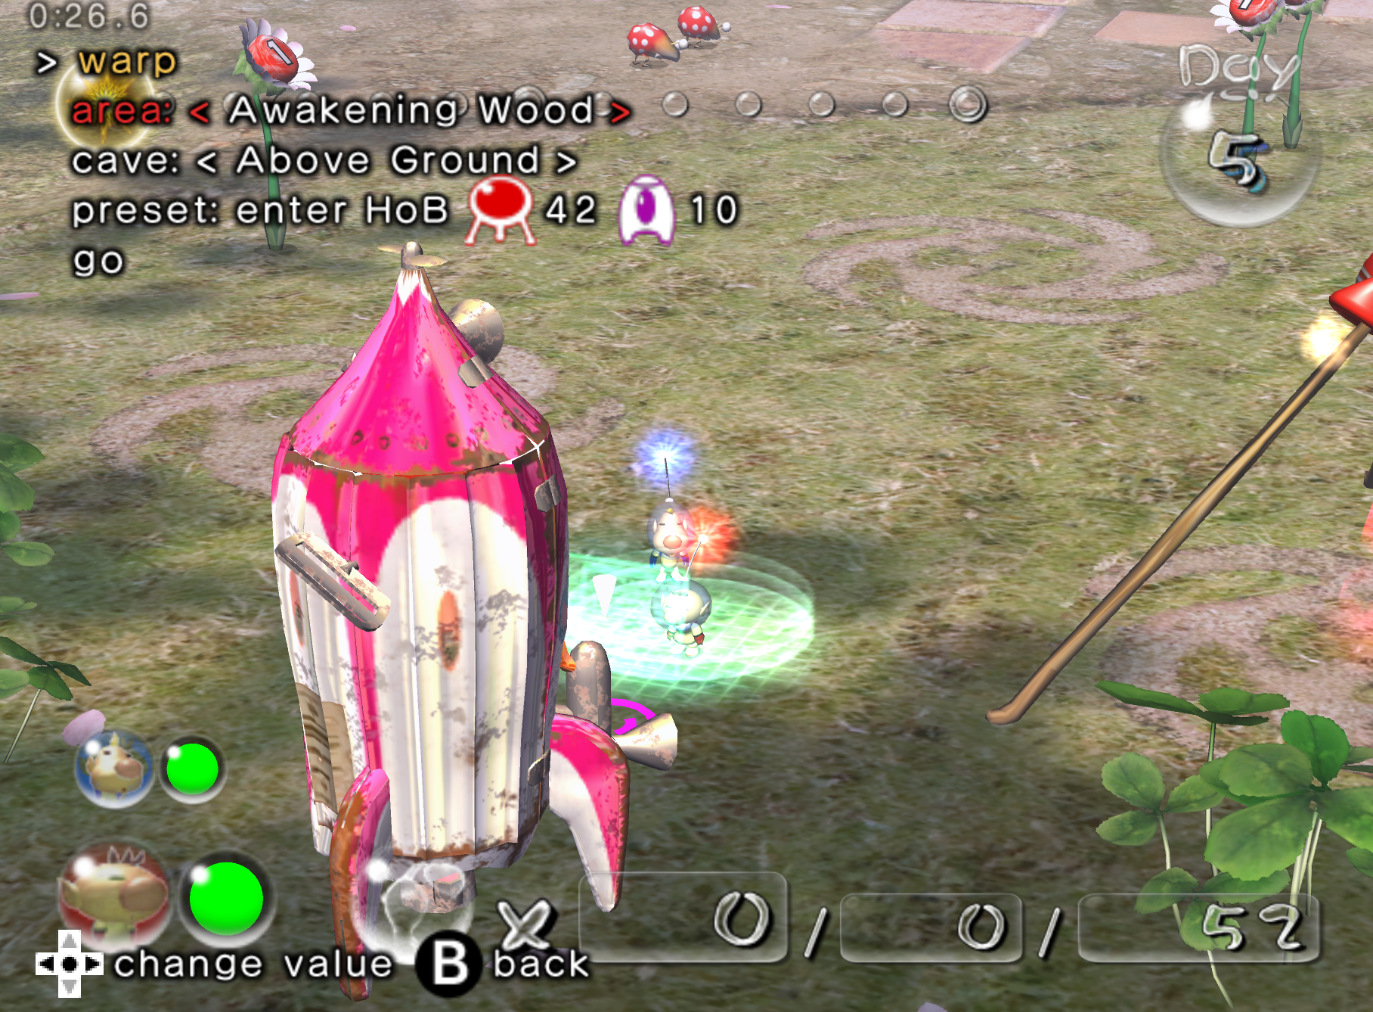
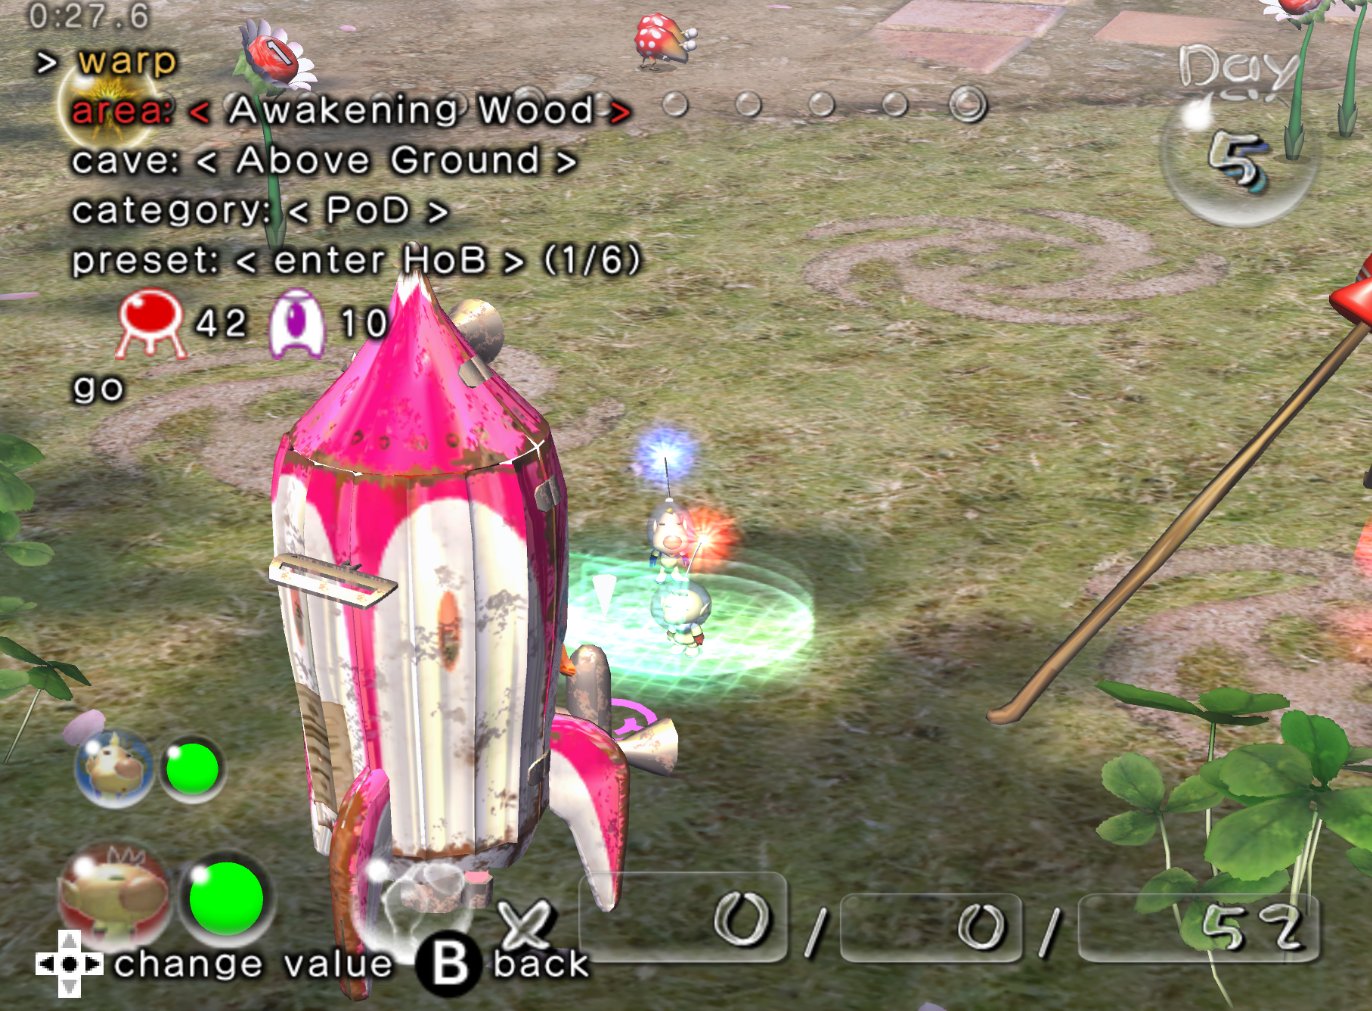
Update README to reflect warp menu changes (#299)

diff --git a/README.md b/README.md
@@ -43,13 +43,13 @@ P2GZ is both Dolphin and console compatible:
 **NB: As always, modifying your console is at your own risk - please take care when following homebrew guides.**
 
 ### Practice caves and above ground areas
-Once you've booted up P2GZ, you can access the P2GZ menu from file select onward, by **double-pressing D-pad-left** on your controller. Some options are only available when opened during gameplay (such as those that depend on a level or assets being loaded), but warping, trainers, and global settings are available from file select.
+Once you've booted up P2GZ, you can access the P2GZ menu from file select onward, by **double-pressing D-pad-left** on your controller. Some options are only available when opened during gameplay (such as those that depend on a level or assets being loaded), but warping, race mode, trainers, and global settings are available from file select.
 
 A couple QoL features are on by default: skippable cutscenes (treasure collection and first-time-entering-area), and skipping save prompts between sublevels. These can be disabled in the P2GZ menu (double-press D-pad-left) under **settings**. These settings will persist when you boot up the game in the future if you are using a memory card (virtual or otherwise). The timer (in the top-left of the screen) will auto-update to account for any skipped cutscenes and for the lack of save prompt.
 
-P2GZ fully supports both Pay Off Debt (PoD) and All Treasures (AT) routes for speedrunning. To practice a segment, open the P2GZ menu (double-press D-pad-left) and select **warp**. Select the area, then the cave (or above ground) you wish to practice using the D-pad. 
+P2GZ fully supports both Pay Off Debt (PoD) and All Treasures (AT) routes for speedrunning. To practice a segment, open the P2GZ menu (double-press D-pad-left) and select **warp**. Select the area, then the cave (or above ground) you wish to practice, then the category (PoD, AT, or no preset) using the D-pad. 
 
-A default PoD preset will auto-select - to change, hit A on the preset and choose your category. Presets are then displayed in route order, with a name and preview of your squad/onion setup. Choose your preset, then select **go** to warp. If warping to a cave, you can also enter a set seed to use when generating the layout, if desired. If you want to warp with your current squad, choose "no preset (warp with current squad) instead.
+The first preset for that area in that category will auto-select - to change, hit D-pad-left or D-pad-right on the preset to cycle through other presets for that area. Press A on the preset to choose from the full list of presets in the game, regardless of area. A preview of your squad/onion setup is also displayed. Once you've picked your preset, select **go** to warp. If warping to a cave, you can also enter a set seed to use when generating the layout, if desired, and also pick which captain you'd like to enter as. If you want to warp with your current squad, choose "no preset" from the category selector instead.
 
 Treasure region (US/JP/PAL) can be changed in the P2GZ menu (double-press D-pad-left) under the **level** submenu, and will take effect when you next warp or load an area. Your selection will be saved to the memory card and will be the default on next boot-up.
 
